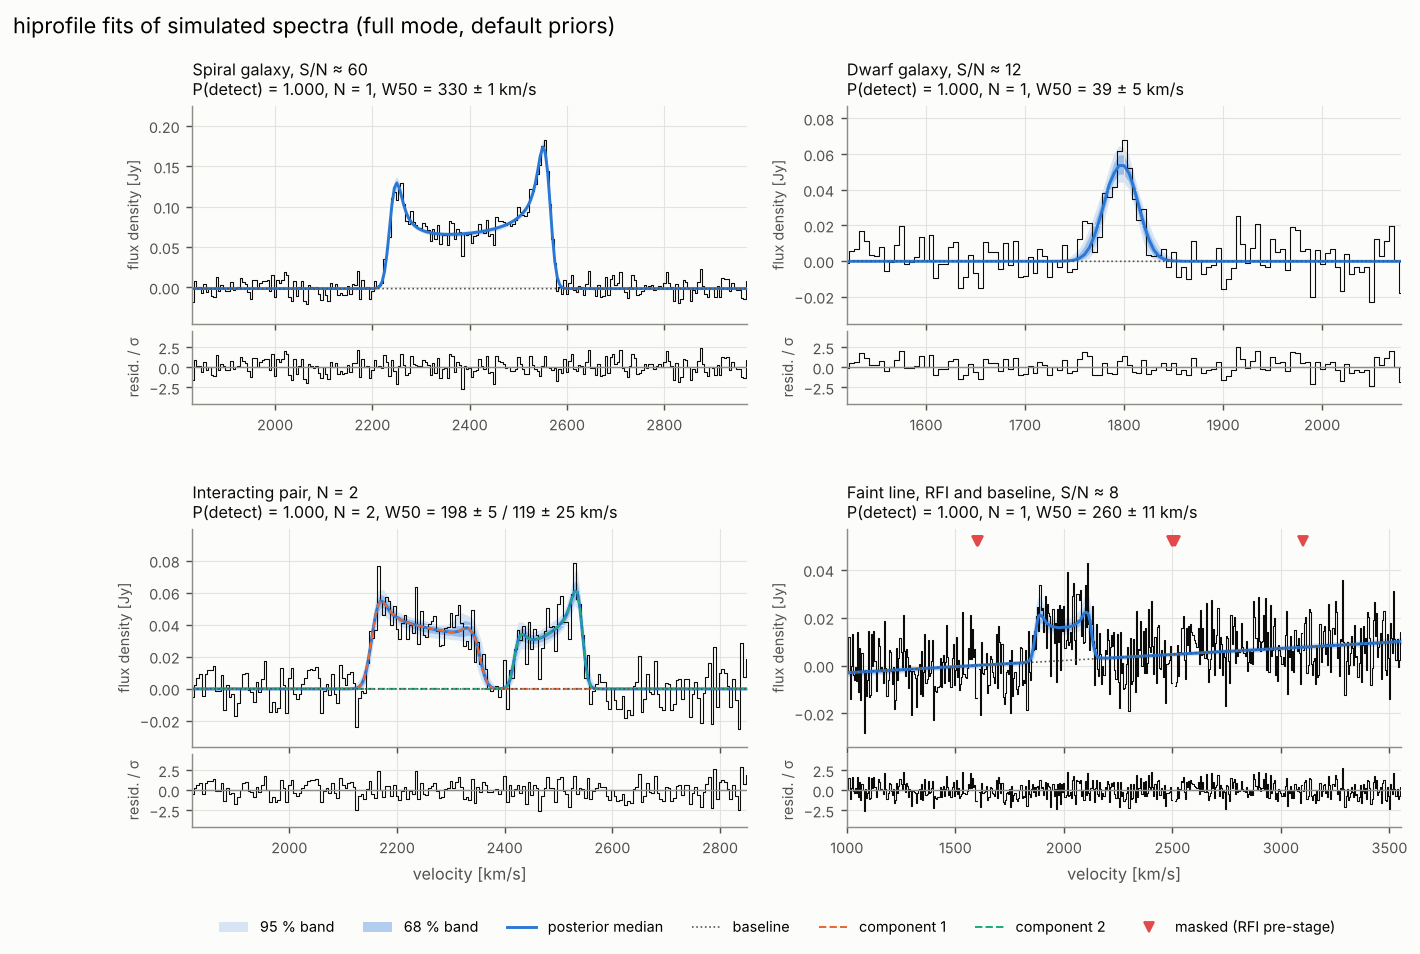
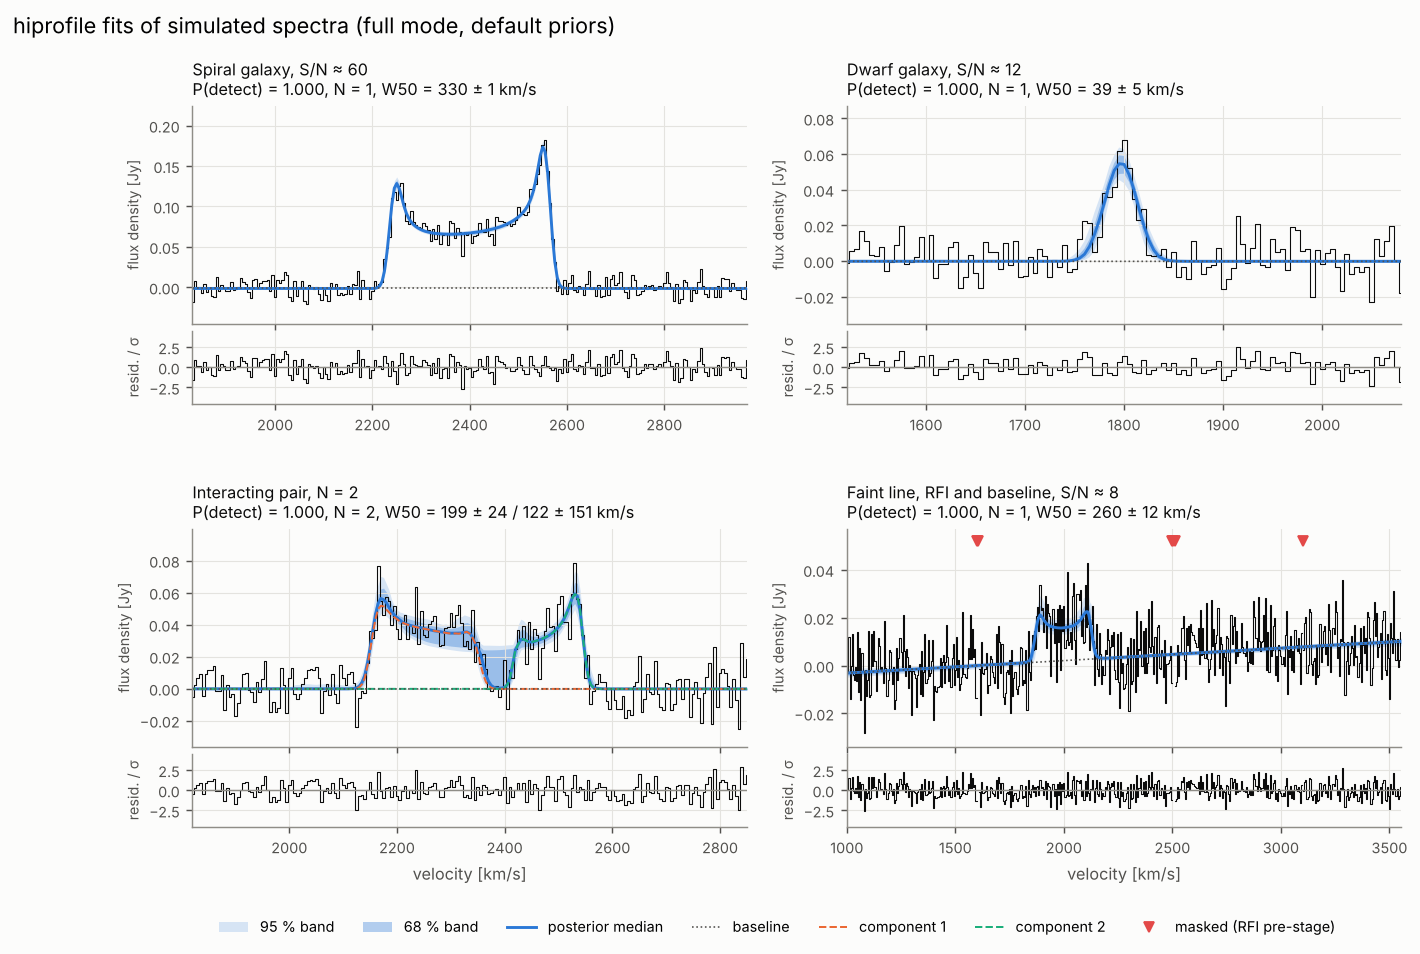
Flux prior scale: keep the flat-over-bright-sources term
The noise-only scale penalised bright sources with exp(-S^2 / 2 scale^2);
splitting a source into two components halves the exponent, and the
gallery's S/N 60 spiral became a pair. The automatic scale is again
max(10 x band noise, 2 x positive band flux): noise-set near the
detection threshold, flat over a bright source. Figures from the full
validation run (commit 61a2b05 / 39e8f76).

Claude-Session: https://claude.ai/code/session_01HNuVsUUJVtD1RaQHWi7F3J

diff --git a/hiprofile/likelihood/marginal.py b/hiprofile/likelihood/marginal.py
@@ -454,17 +454,22 @@ class MarginalLikelihood:
 def default_amp_scale(
     flux: np.ndarray, good: np.ndarray, sigma_rms: float, dv: float, factor: float = 10.0
 ) -> float:
-    """Scale of the half-normal prior on the integrated flux S: ``factor`` times
-    the noise of the flux integrated over the whole band.
+    """Scale of the half-normal prior on the integrated flux S of each component.
 
-    It depends on the noise and the band only, not on the signal, so that
-    evidences and detection probabilities of spectra with the same noise are
-    comparable. A source brighter than a few times the scale is still found;
-    only its evidence pays a penalty, which matters nowhere near the detection
-    threshold. Fix ``priors.amplitude_scale`` for a survey.
+    The larger of ``factor`` times the noise of the flux integrated over the
+    whole band and twice the positive flux in the band. Near the detection
+    threshold the first term wins, so the prior is the same for every
+    spectrum of a given noise and the evidences are comparable. For a bright
+    source the second term keeps the prior flat over the source's flux: a
+    half-normal narrower than S penalises S by exp(-S^2 / 2 scale^2), and
+    splitting the source into two components halves that exponent, which
+    turned a single bright spiral into a pair. Fix ``priors.amplitude_scale``
+    for a survey when evidences must be comparable across all fluxes.
     """
     n = int(np.sum(good))
-    return factor * sigma_rms * dv * math.sqrt(n)
+    band_noise = sigma_rms * dv * math.sqrt(n)
+    total = float(np.sum(np.where(good, flux, 0.0)) * dv)
+    return max(factor * band_noise, 2.0 * total)
 
 
 def build_likelihood(

diff --git a/hiprofile/cli.py b/hiprofile/cli.py
@@ -73,8 +73,8 @@ def cmd_fit(args: argparse.Namespace) -> int:
     sources = list_sources(args.spectra)
     if len(sources) > 1 and cfg.priors.amplitude_scale == "auto":
         log.warning(
-            "priors.amplitude_scale is 'auto' (10 x the noise of the band-integrated flux per spectrum); "
-            "fix it for comparable evidences and detection probabilities across the survey"
+            "priors.amplitude_scale is 'auto' (set per spectrum from its noise and flux); "
+            "fix it for evidences that are comparable across the survey"
         )
     chunk = parse_chunk(args.chunk)
     log.info(

diff --git a/docs/priors.md b/docs/priors.md
@@ -15,7 +15,7 @@ lower S/N.
 | α | normal(0, 0.25) truncated to [−1, 1] | median 0.00, robust σ 0.14; 3 of 34 with \|α\| > 0.6 (NGC 3077, NGC 1569, Ho I) | Stewart B.2: normal(0, 0.2) |
 | f | Beta(1, 3), density 3(1 − f)², median 0.21, P(f > 0.7) = 2.7 % | median 0.15, mean 0.23, 1 of 34 above 0.7 (0.93); a uniform prior is rejected (KS p < 0.001), Beta(1, 3) is not (p = 0.13) | Stewart B.2: exponentially decreasing with characteristic constant 0.3 (printed as 0.3 e^(−0.3 f), which would be nearly flat; the text describes a decreasing prior) |
 | v_ctr | uniform over the band minus 5 % margins; normal(v_cat, 20–50 km/s) for targeted spectra | – | Stewart B.2: normal, σ = 20 km/s |
-| S | half-normal; scale `amplitude_scale`: `auto` = 10 × the noise of the band-integrated flux (noise only, not the signal), fix per survey | – | Stewart: flat (improper, unusable for evidences) |
+| S | half-normal; scale `amplitude_scale`: `auto` = max(10 × noise of the band-integrated flux, 2 × positive band flux), i.e. noise-set near the detection threshold and flat over a bright source (a narrower prior would split bright sources into pairs); fix per survey | – | Stewart: flat (improper, unusable for evidences) |
 | K | flat over `k_min` … `k_max`, coefficients N(0, `baseline_scale`²), `auto` = 10 × rms | the misspecification stage checks the K choice with a prior 50 × too wide | Stewart: order by maximum evidence |
 
 All priors are simple one-parameter-family shapes (log-normal, truncated
